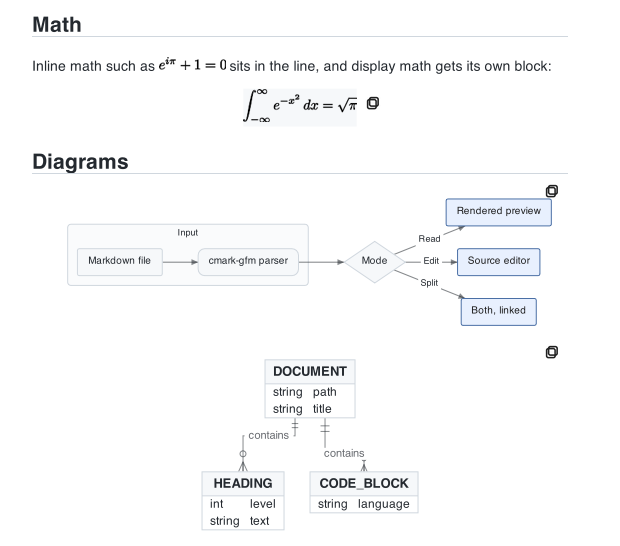
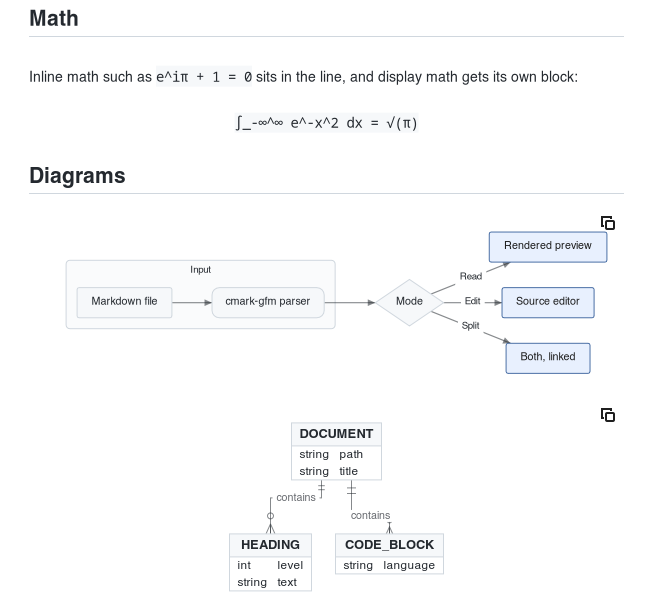
README: close-ups from the rc5 AppImage; say where math is typeset
Both close-ups are retaken from the rc5 AppImage like the other Linux
shots, so the math one shows the styled-text fallback. The Math bullet
now says LaTeX typesetting works on Windows (TinyTeX bundled) and with a
toolchain the app can find, and that the Linux packages (#246) and macOS
(#244) show styled text for now.

Claude-Session: https://claude.ai/code/session_01GbfvoX4q9rDyzhZ7ww48LD

diff --git a/README.md b/README.md
@@ -53,13 +53,13 @@ The renderer parses with GitHub's [cmark-gfm](https://github.com/github/cmark-gf
 
 | Tables and code | Math and diagrams |
 |:---:|:---:|
-| ![A table and syntax-highlighted Objective-C and Python](docs/screenshots/closeup-tables-code.png) | ![Inline and display math, a Mermaid flowchart and an ER diagram](docs/screenshots/closeup-math-diagrams.png) |
+| ![A table and syntax-highlighted Objective-C and Python](docs/screenshots/closeup-tables-code.png) | ![Inline and display math as styled text, a Mermaid flowchart and an ER diagram](docs/screenshots/closeup-math-diagrams.png) |
 
 - CommonMark: headings, emphasis, links, images, blockquotes, lists, code blocks, thematic breaks
 - GitHub-flavored Markdown: tables, task lists, strikethrough, autolinks and footnotes
 - **Tables laid out as text**: selectable and searchable, with links and cells that wrap to fit (or drawn as an image that may run wider than the view, via `allowTableHorizontalOverflow`)
 - **Mermaid** `flowchart` (with subgraphs, `classDef` and `style`) and `erDiagram` blocks drawn as diagrams, with the source one click away; other Mermaid types show their source with a note
-- **Math**: inline and display math as styled text, or typeset through LaTeX when a TeX toolchain is installed
+- **Math**: inline and display math as styled text, or typeset through LaTeX: on Windows (the MSI bundles TinyTeX) and wherever the app finds a TeX toolchain. The Linux packages and macOS currently show math as styled text even with one installed ([#246](https://github.com/danjboyd/ObjcMarkdown/issues/246), [#244](https://github.com/danjboyd/ObjcMarkdown/issues/244))
 - **Syntax highlighting** for code blocks in Objective-C, C and C++, Swift, Python, JavaScript and TypeScript, Go, Rust, Java, Kotlin, C#, PHP, Ruby, SQL, JSON, YAML, TOML, HTML and XML
 - **HTML as GitHub READMEs use it**: centred paragraphs and headings, images with a width, `<br>`, `<kbd>`, `<sup>`/`<sub>`, `<details>`/`<summary>`, lists, rules and simple tables; scripts, styles and embedded content are dropped (`OMMarkdownHTMLPolicyRenderSafeSubset`, the default; HTML can also be shown as text or ignored)
 - Relative links and images resolved against the document's location
